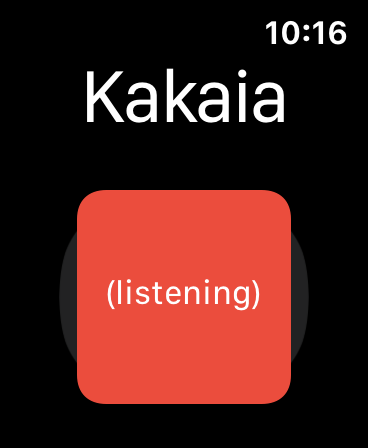
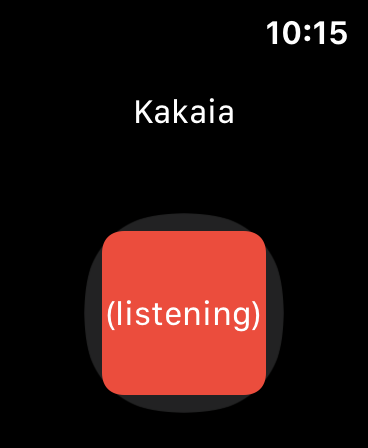
update readme screenshots

Changed region(s): [[0.1495, 0.4062, 0.837, 0.9375], [0.2391, 0.1562, 0.7772, 0.2812], [0.7174, 0.0312, 0.9565, 0.0938]]

diff --git a/README.md b/README.md
@@ -8,7 +8,7 @@ This client is still just a proof of concept. It currently makes hard-coded assu
 
 The client requires that you are also running the [Kakaia engine](https://github.com/jeremyandrews/kakaia) on your local network. It provides a simple UI for recording your voice from an Apple Watch, sending the audio file to the Kakaia engine to convert to text.
 
-The app currently has two modes:
+The app is currently just a proof of concept, and has 4 simple screens:
 
 ### Standby
 
@@ -22,11 +22,24 @@ The app is recording audio:
 
 ![Kakaia watchOS app: Listening](/images/listening.png?raw=true "Listening: Kakaia client")
 
-Currently the app records continuously until you press the big red button. In the background it will then encode the audio file and push it to your local Kakaia engine.
+Currently the app records continuously until you press the big red button.
+
+### Thinking
+
+The app is encoding the audio, sending it to the Kakaia engine, and waiting for a response:
+
+![Kakaia watchOS app: Thinking](/images/thinking.png?raw=true "Thinking: Kakaia client")
+
+### Text
+
+Once the Kakaia engine returns the audio as text, the Kakaia text at the top of the screen turns into a button. Click it to see the text version of your spoken audio:
+
+![Kakaia watchOS app: Text](/images/text.png?raw=true "Text: Kakaia client")
+
 
 ### Notes
 
-This is my first watchOS app. I greatly appreciate contributions!
+The app is currently a proof of concept with limited functionality. I greatly appreciate contributions!
 
 ## Roadmap
 
